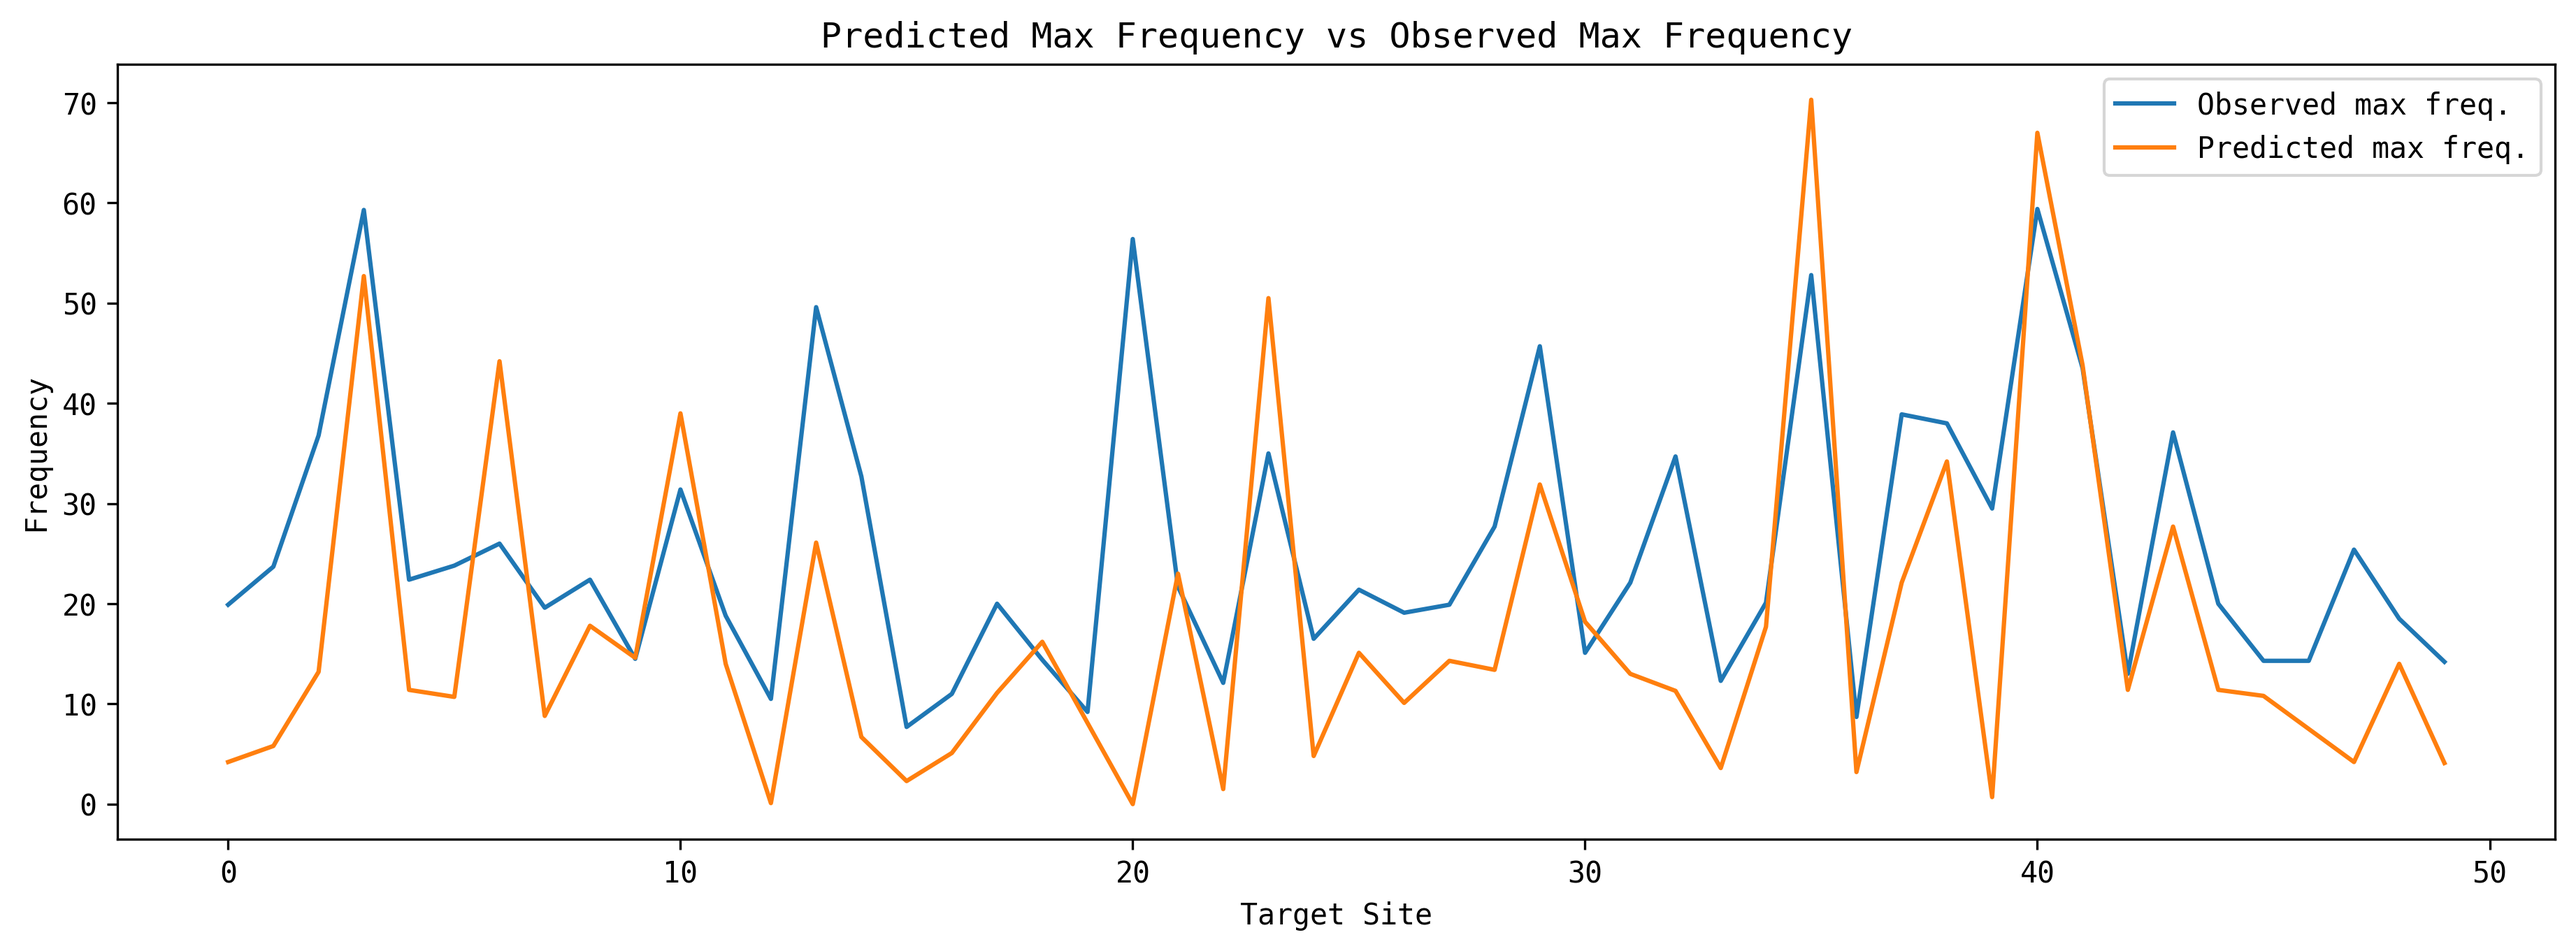
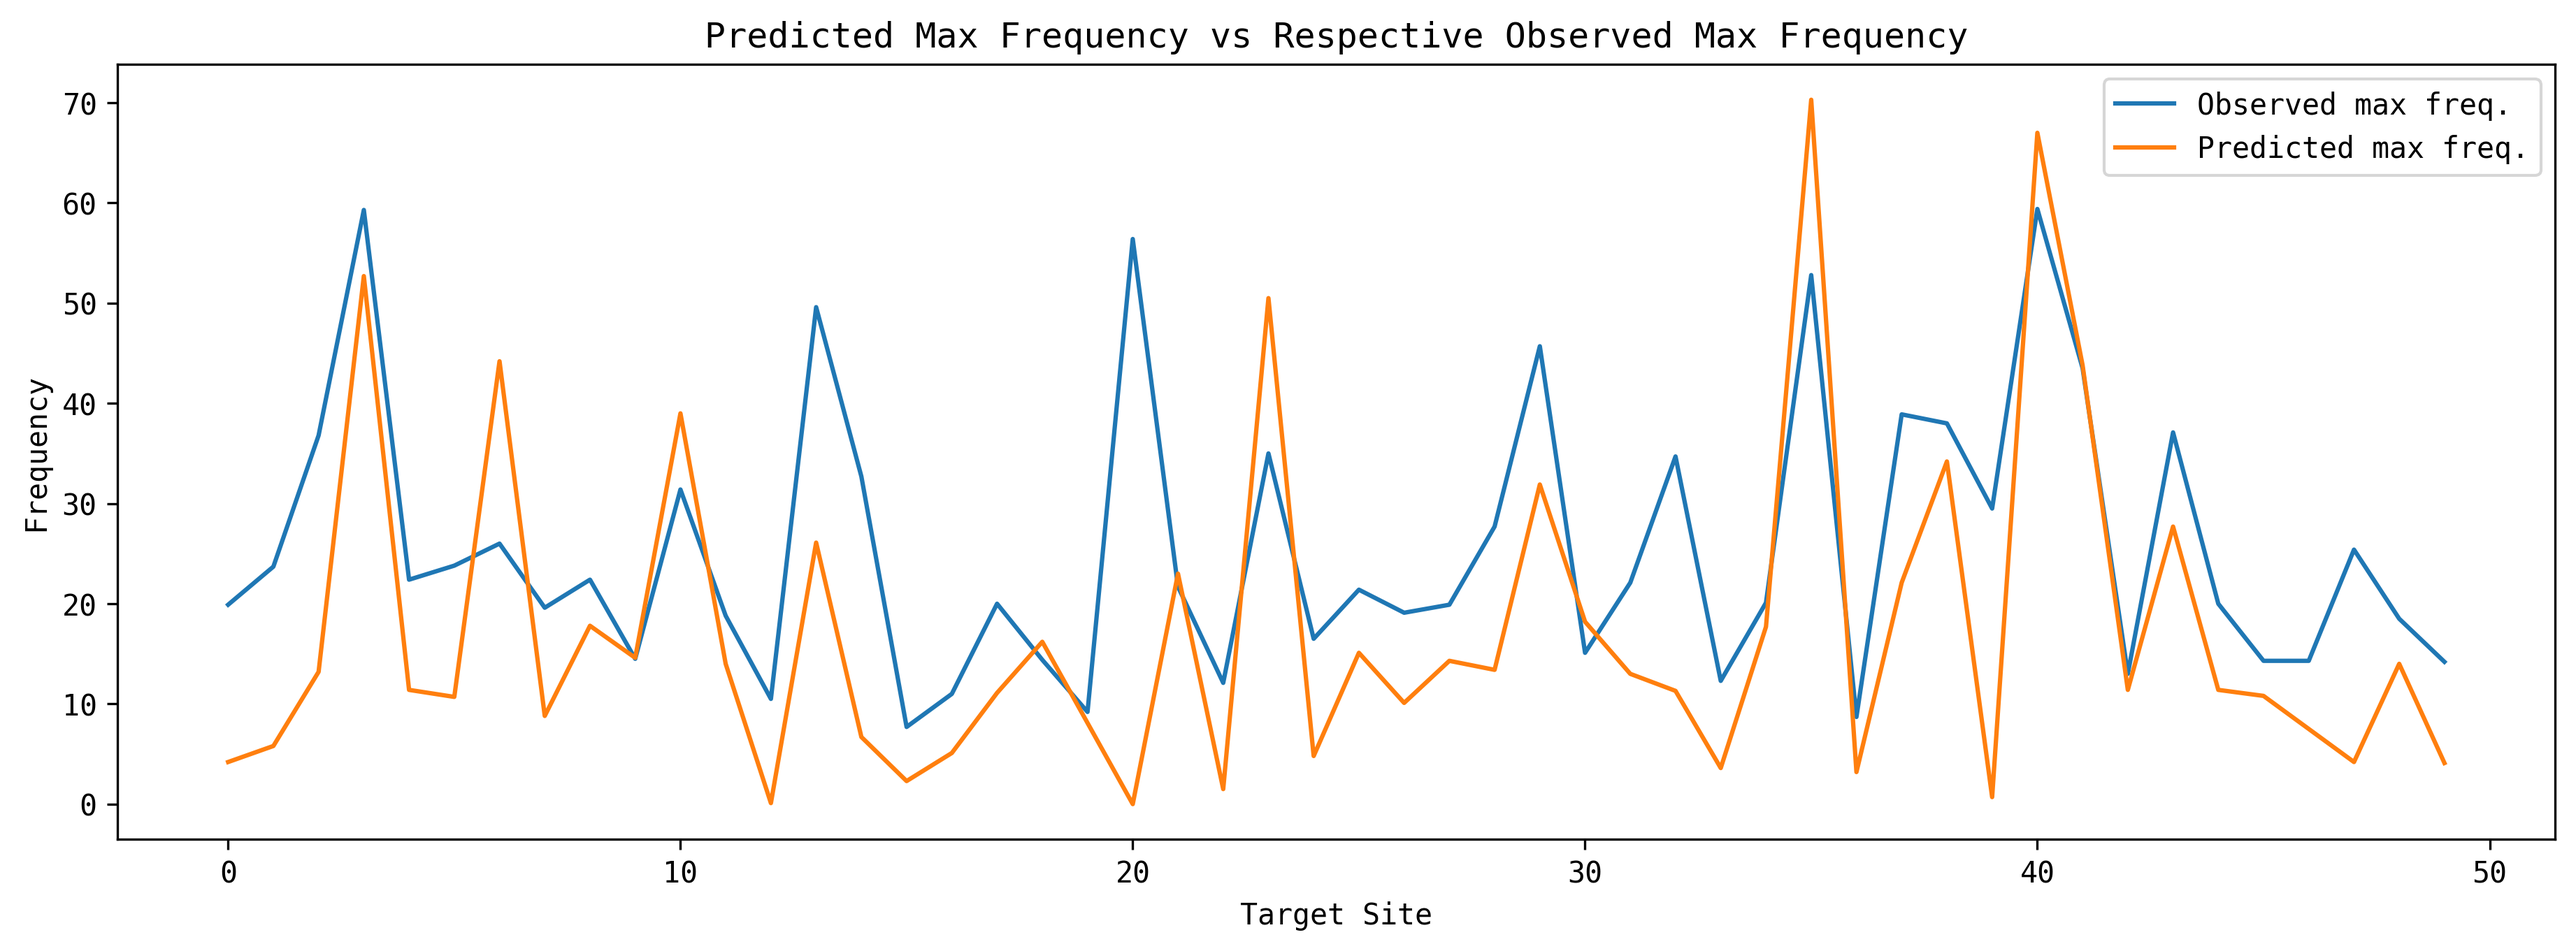
Change title of the figure

Changed region(s): [[0.2809, 0.0309, 0.7802, 0.0617]]

diff --git a/generate_figures.py b/generate_figures.py
@@ -146,7 +146,7 @@ def generate_prediced_vs_observed_frequency_trend(test_sequences, cutsite, obser
     plt.plot(x, y1, label='Observed max freq.')
     plt.plot(x, y2, label='Predicted max freq.')
 
-    plt.title('Predicted Max Frequency vs Observed Max Frequency')
+    plt.title('Predicted Max Frequency vs Respective Observed Max Frequency')
     plt.xlabel('Target Site')
     plt.ylabel('Frequency')
     plt.legend()
